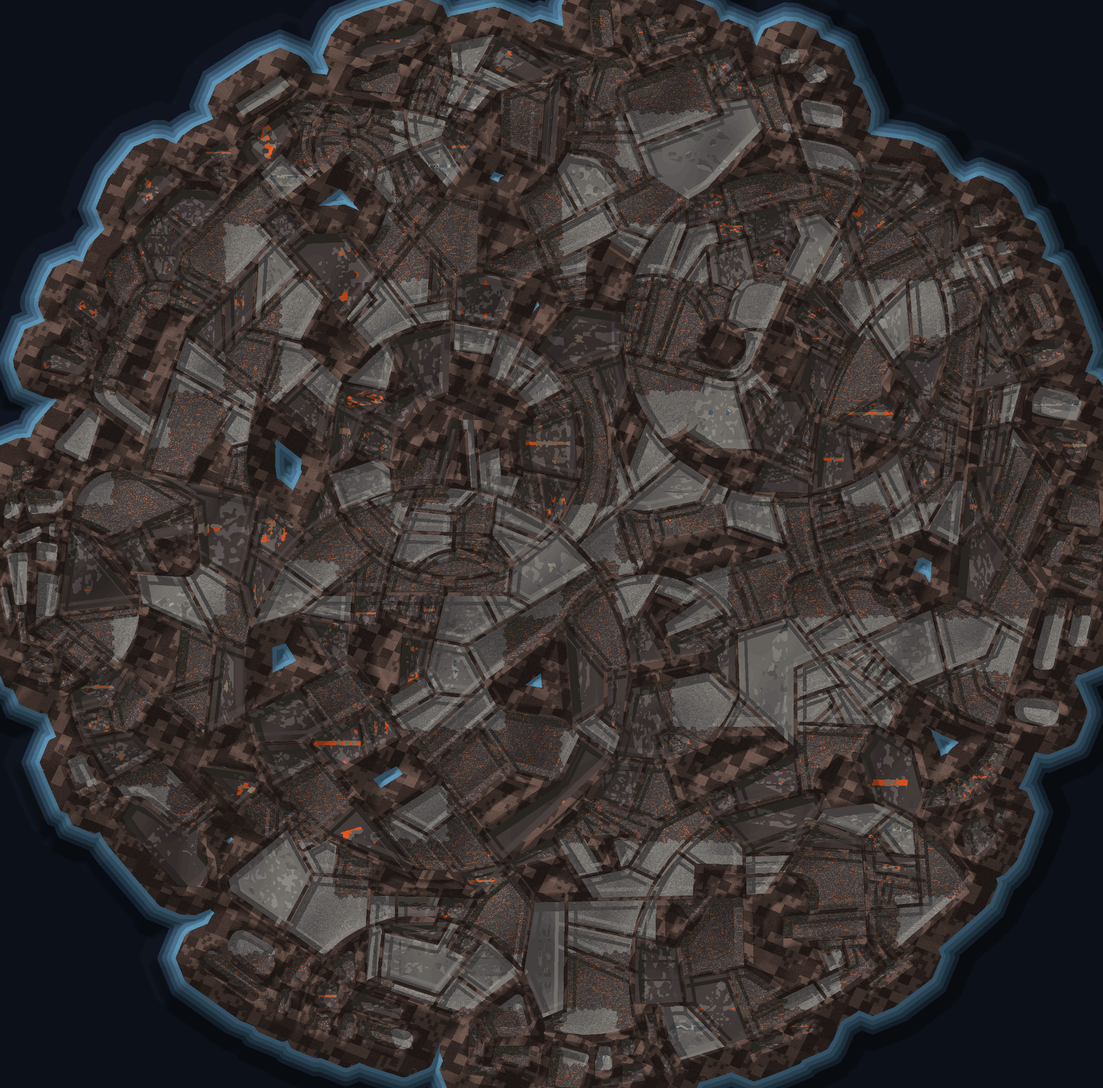
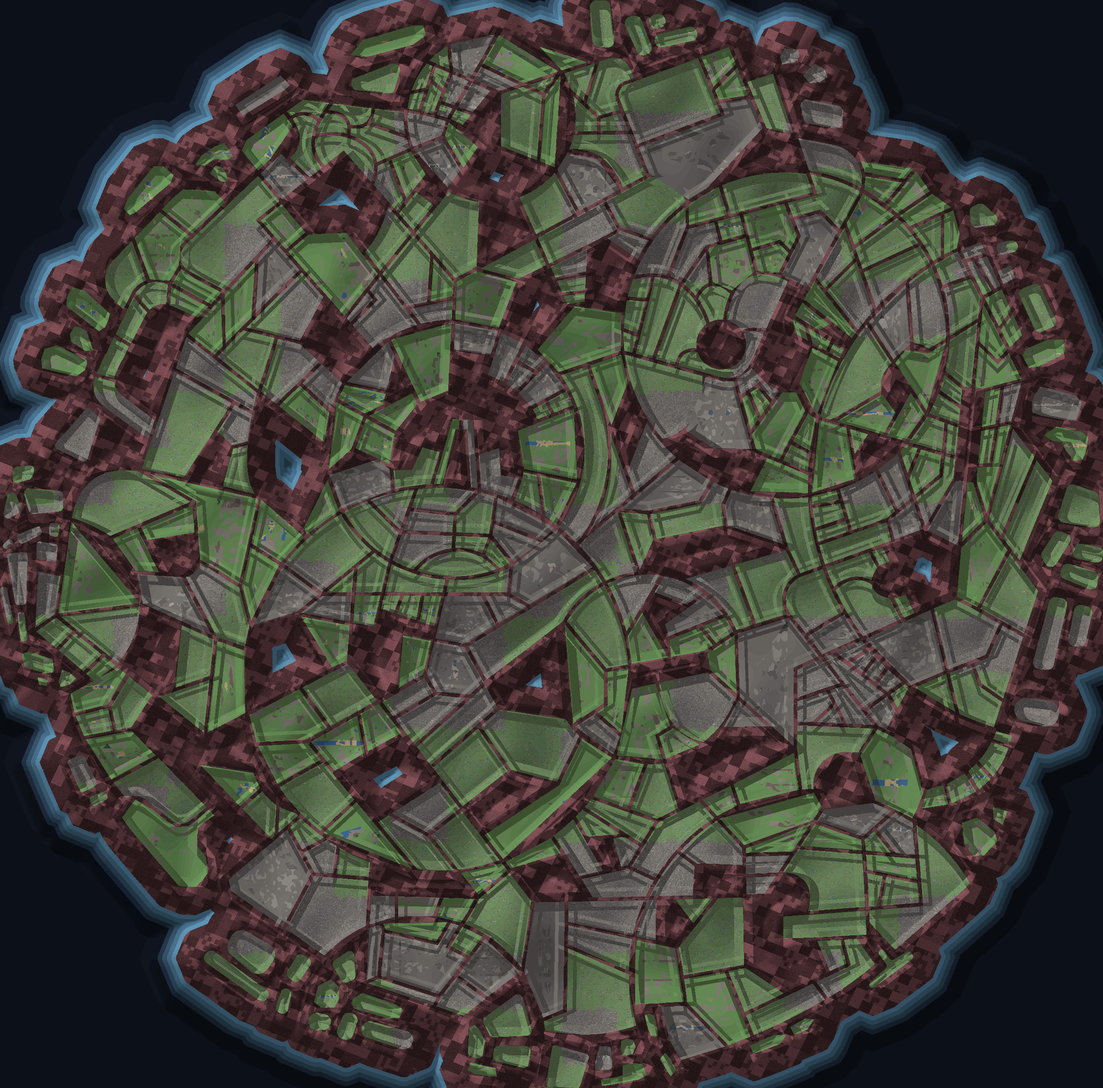
sky battle maps: STACKED CITY doctrine (3 layers of land) + HS2 ember-crystal mosaic
Owner (2026-08-31): sky-city battle maps = '3 layers of LAND you can travel
on each — 5th Element but not exactly 3D'. Spec'd in
docs/briefs/SKY-STACKED-CITY-BATTLEMAPS.md:
- Tier remap: sky bottom layer = DECK 0 under-city (no rivers/sea — the
  VOID replaces the ocean; tunnels replace beaches; falling = death).
- V1 (ships with the HS fields, zero engine change): three strong terraced
  height bands per city + ramp/tunnel chokepoints — existing elevationTiers
  machinery carries it. Field agents briefed mid-build.
- V2 (the unique thing, engine milestone): true overlapping decks —
  decks[] per-deck walk masks, TUNNEL/RAMP/LIFT connectors-as-data (the
  stairs contract grown up), void-edge rails with honest gaps (vessel-deck
  physics reuse), N-deck audit generalization. Gameplay pushes: vertical
  siege-in-depth, deck-0 'cut the power' capture, two-door reinforcement
  (under-deck tunnels vs top-deck pads). Owner questions in §5.
Also: HS2 aerial mosaic re-baked with the ember-crystal skin; coord relay.

Changed region(s): [[0.0, 0.0, 1.0, 1.0], [0.1856, 0.8656, 0.3712, 0.9584], [0.0, 0.4328, 0.0619, 0.4637]]

diff --git a/docs/briefs/SKY-STACKED-CITY-BATTLEMAPS.md b/docs/briefs/SKY-STACKED-CITY-BATTLEMAPS.md
@@ -1,0 +1,96 @@
+# SKY BATTLE MAPS — THE STACKED CITY (three layers of land) · planning brief 2026-08-31
+
+**Owner directives (verbatim intent):** "Same rigor as the others or even MORE unique. Most of
+these floating islands you can fly — there is probably NO river… but TUNNELS. The 3 layers
+(air/land/sea) can probably change: 3 layers of THE CITY — you can travel by land ON EACH layer…
+like the 5th Element where everything flies in 3D traffic — but not exactly 3D, just **3 layers
+of land**. For the battle maps." (Owner is explicitly unsure how it changes gameplay and wants
+the design pushed.)
+
+## 1. The tier remap — one doctrine, re-based per world tier
+
+The three-layer doctrine (NAVAL-AIRSHIP-THREE-LAYER-MAPS.md) doesn't disappear in the sky — its
+**bottom layer changes meaning**:
+
+| | bottom | middle | top | the "ocean" |
+|---|---|---|---|---|
+| **Surface/UW** | DEEP water (ships) | land + shallow | air (airships must land) | the sea |
+| **SKY zones** | **DECK 0 — the under-city** (works, reactors, roots) | **DECK 1 — the mid city** | **DECK 2 — the crown** (+ air above) | **THE VOID** below the isle — nothing sails it; falling = death (the airship-over-land rule, generalized) |
+
+No rivers, no sea layer in the sky: water on sky maps is decorative only (garden pools, frozen
+channels — never DEEP/sailable; the naval grades simply don't occur). What connects the layers
+is not a beach but a **TUNNEL / RAMP / LIFT** — the vertical city's gates.
+
+## 2. Phase V1 — TERRACED decks (ships now, zero engine change)
+
+"Not exactly 3D, just 3 layers of land" has a faithful flat-engine reading: the three decks as
+**three strong terraced height bands** on the ONE walk plane — no overlap, pure elevation, cliffs
+between bands, and the band transitions are the tunnels/ramps (carved gate-choke corridors
+through the terrace cliff, exactly like castle gates through walls).
+
+- The HS field generators (being built now) author **exactly three dominant contour bands** per
+  city (HS1 garden terraces / HS2 works→city→crown / HS3 pilgrim base→white terraces→summit), so
+  every parcel battle map windowed from the field inherits the 3-level read.
+- Existing machinery carries all of it: ridges → `siege.elevationTiers` (the strictly-above-tier
+  over-wall rule already works on any high ground), road carving makes the ramp chokepoints,
+  R-REACH-ALL guarantees every band is honestly reachable.
+- Airships land on pads; pads prefer the TOP band (crown pads) — a ⚙ preference, not a new rule.
+
+**V1 = distinct look + real vertical tactics (hold the ramp mouths, archers on the upper band)
+with today's engine.**
+
+## 3. Phase V2 — TRUE stacked decks (the unique thing; engine milestone)
+
+The real 5th-Element read: decks that **overlap in plan** — you stand on Deck 1 UNDER Deck 2's
+streets. This is a genuine engine feature, and we already own its little brother: the
+**wall-walk** (a second walkable plane at height, reached only by stairs-as-data, audited as a
+separate layer in `traverse.js`). V2 generalizes exactly that contract:
+
+- **Artifact:** `decks: [{ id: 0|1|2, h, walk: b64, palette? }]` — per-deck walk masks at
+  declared heights; `terrain.walk` stays Deck 0 for back-compat.
+- **Connectors as data (the stairs contract, grown up):** `connectors: [{ kind: "TUNNEL"|"RAMP"|
+  "LIFT", from: {deck, x, z}, to: {deck, x, z}, w, len }]` — renderers draw them verbatim,
+  engines path through them, NOTHING is renderer-derived (R-STD's rule).
+- **Deck edges = the void:** rails with GAPS, exactly the vessel-deck physics we already have
+  (`build/voyage/vessel.js` — rails solid, gaps honest, knockback near an edge is lethal drama).
+  Falling off deck 2 lands you on deck 1 (damage); off deck 0 into the void = death.
+- **Audit:** `runAudit`/`runNavalAudit` generalize from their current 2-layer model (ground +
+  wall-walk) to N decks + connector graph — every deck one component, every connector marches.
+- **Flyers** move between decks freely; **airships** dock only at top-deck pads; the "3D
+  traffic" is visual dressing (flyer lanes between decks), never free 3D pathing for ground units.
+
+## 4. Gameplay pushed (concrete mechanics for the owner to react to)
+
+1. **Siege-in-depth, rotated vertical:** the concentric-castle doctrine turned 90° — deck 0 is
+   the outer ward, the crown is the keep. Attackers who take the UNDER-CITY cut what it feeds.
+2. **The under-city matters:** deck 0 holds the working guts (HS2: the crystal reactors — take
+   them and the empire's floodlights die on the decks above; HS3: the sealed vaults; HS1: the
+   roots/cisterns of the gardens). Capturing deck 0 applies a zone-wide debuff upward (⚙).
+3. **Tunnels are the gates of the vertical city:** few, wide-enough, destructible-sealable —
+   every gate rule we own (R-DOOR widths, portcullis, choke contestability) applies verbatim.
+4. **Fall hazards as drama, not cheese:** rails along deck edges with honest gaps (vessel-deck
+   reuse); knockbacks near edges are the sky city's signature kill.
+5. **Reinforcement remap:** no beaches — sea arrival is replaced by **under-deck arrival**
+   (tunnel mouths at the isle rim, deck 0) vs **air arrival** (top-deck pads). Two doors, top
+   and bottom, squeezing the mid city from both sides.
+6. **Estate board battles:** decks slot into decision 22 unchanged — a deck is a component of
+   the board like any parcel-component; POI parcels can BE "the reactor ward, deck 0".
+
+## 5. Open questions for the owner (⚙ — react, don't assume)
+
+1. V2 scope: do all three decks fight in ONE live ±161 match (one arena, three walk planes), or
+   is a live match one deck with the others as board-battle components? (Recommend: one match,
+   three planes — that's the unique thing.)
+2. Deck-0 capture debuff (the "cut the power" mechanic) — yes/no, and what it does.
+3. Falling: deck-to-deck = damage, void = death — confirm.
+4. Do sky SINGLE parcels get decks too, or only city/estate maps? (Recommend: estates + POI
+   parcels only; countryside singles stay terraced V1.)
+
+## 6. Work split + status
+
+- **CF ParcelMap (me):** V1 terraced bands — IN the HS field builds happening now (agents
+  briefed mid-flight); V2 data contract + generator + audit generalization — after owner
+  answers §5.
+- **MOBA BattleEngine RAW + EF Moba:** V2 is a real engine milestone (multi-plane collision +
+  connector pathing + deck rendering/camera). Relay via MOBA-CF-COORD when V2 is greenlit —
+  the wall-walk implementation is the template.

diff --git a/docs/coord/MOBA-CF-COORD.md b/docs/coord/MOBA-CF-COORD.md
@@ -1286,3 +1286,16 @@ structures within attack range; only water pets swim DEEP, flyers overfly both.
 `docs/briefs/MOBA-NAVAL-AIRSHIP-IMPLEMENTATION.md`** (data consumption, rendering, systems,
 acceptance scenes on siege-test / Bastion / Grand Exchange). **Vendor guard: siege-test authority
 is now genVersion 31.** Land-control vessel gating (5/10/25/100 parcels ⚙) → CF Overworld (brief §7).
+
+### 2026-08-31 (cont. 3) · SKY ZONES: identities locked, fields IN BUILD, stacked-city battle doctrine spec'd
+Owner locked the three sky identities (docs/maps/SKY-ZONES-DESIGN.md): HS1 Aeropolis = abandoned
+leafy castle-in-the-sky; HS2 Emberfall = THE EMBER-CRYSTAL EMPIRE (new biomeFamily EMBER_CRYSTAL +
+`ember` palette — red crystal gems power the imperial tech; NEVER volcanic/lava in the sky); HS3
+Empyrea = the Frozen Pinnacle. Three field-builder agents are authoring the HS macro fields now
+(uw2-pattern tools). NEW battle-map doctrine for sky cities (owner: "3 layers of LAND, 5th-Element
+but discretized"): `docs/briefs/SKY-STACKED-CITY-BATTLEMAPS.md` — V1 = three terraced height bands
+(ships with the fields, zero engine change); **V2 = TRUE stacked decks (per-deck walk masks +
+TUNNEL/RAMP/LIFT connectors-as-data + void-edge rails)** — a real engine milestone for
+EF Moba + BattleEngine RAW; the wall-walk implementation is the template. Awaiting owner answers
+(brief §5) before V2 is greenlit. Sky maps have NO naval layer (water decorative only; the void
+replaces the sea; under-deck tunnel arrival replaces the beach).
